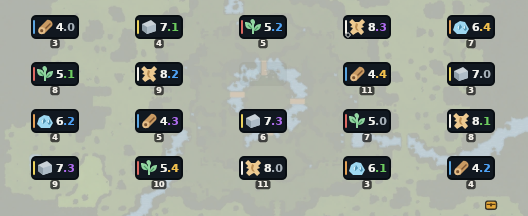
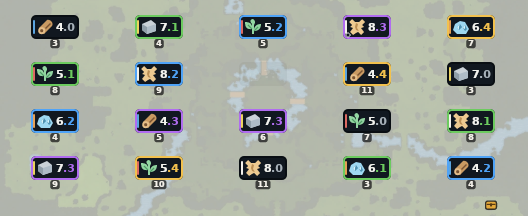
Outline enchanted resource markers in their enchantment color

diff --git a/AlbionDataAvalonia/Ui/ResourceMapGlyph.cs b/AlbionDataAvalonia/Ui/ResourceMapGlyph.cs
@@ -20,6 +20,9 @@ internal static class ResourceMapGlyph
         var ink = UiPalette.Color("UiMapResourceInkColor");
         context.DrawRectangle(UiPalette.Brush("UiMapResourcePlateColor"),
             UiPalette.Pen(UiPalette.Color("UiMapResourceEdgeColor"), 2), box, 4, 4);
+        // A full colored rim reads at a glance; only observed enchantments may claim a color.
+        if (!possible && enchantment is >= 1 and <= 4)
+            context.DrawRectangle(null, UiPalette.Pen(ActivityPalette.Enchantment(enchantment.Value), 2), box, 4, 4);
         context.DrawRectangle(UiPalette.Brush(ActivityPalette.ResourceTier(tier)), null,
             new Rect(box.X + 1, box.Y + 4, 2, 14), 1, 1);
         ResourceMapSymbol.Draw(context, new Rect(box.X + 5, box.Y + 3, 16, 16), family);
